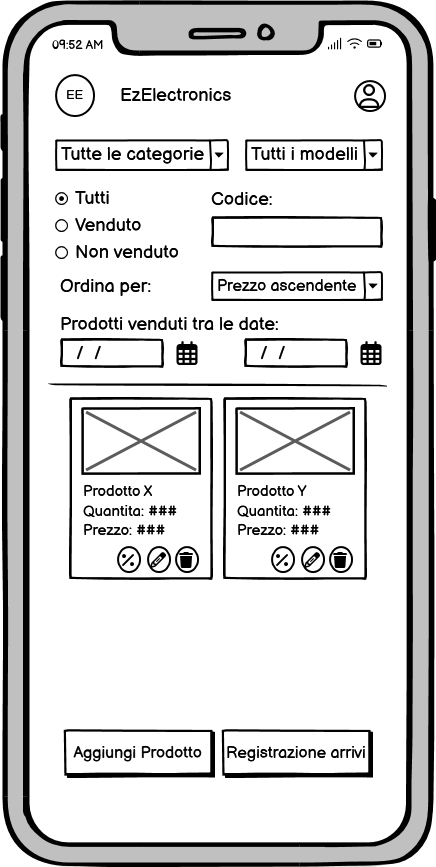
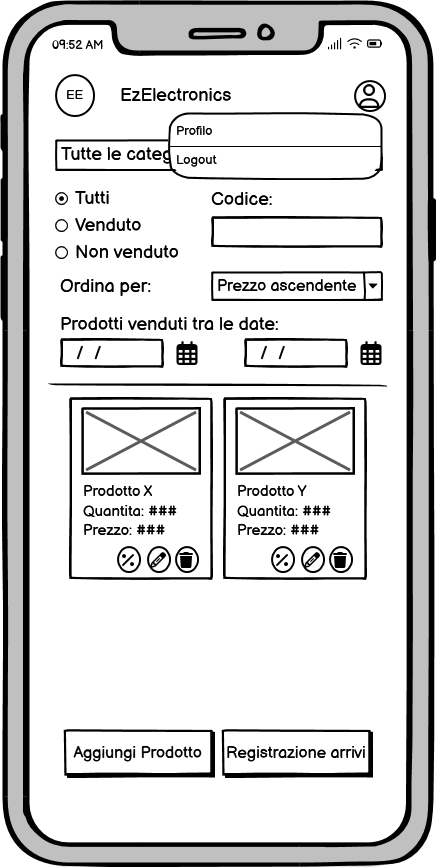
correzione gui

Changed region(s): [[0.3876, 0.1246, 0.8945, 0.218]]

diff --git a/GUIPrototypeV1.md b/GUIPrototypeV1.md
@@ -68,8 +68,14 @@ Si accede alla pagina tramite il bottone "Registrazione Arrivi" sulla navbar per
 
 ![RegistrazioneArriviPC](/img/RegistrazioneArriviPC.png)
 
-### Logout 
+### Logout (da utente customer e manager)
 
 ![Logout](/img/Logout.png)
 
 ![LogoutPC](/img/LogoutPC.png)
+
+## Profilo (da utente customer e manager)
+
+![Profilo](/img/Profilo.png)
+
+![ProfiloPC](/img/ProfiloPC.png)

diff --git a/GUIPrototypeV2.md b/GUIPrototypeV2.md
@@ -113,3 +113,9 @@ Si accede alla pagina tramite il bottone "Registrazione Arrivi" sulla navbar per
 ![Sconto](/img/Sconto.png)
 
 ![ScontoPC](/img/ScontoPC.png)
+
+## Profilo (da utente customer e manager)
+
+![Profilo](/img/Profilo.png)
+
+![ProfiloPC](/img/ProfiloPC.png)
